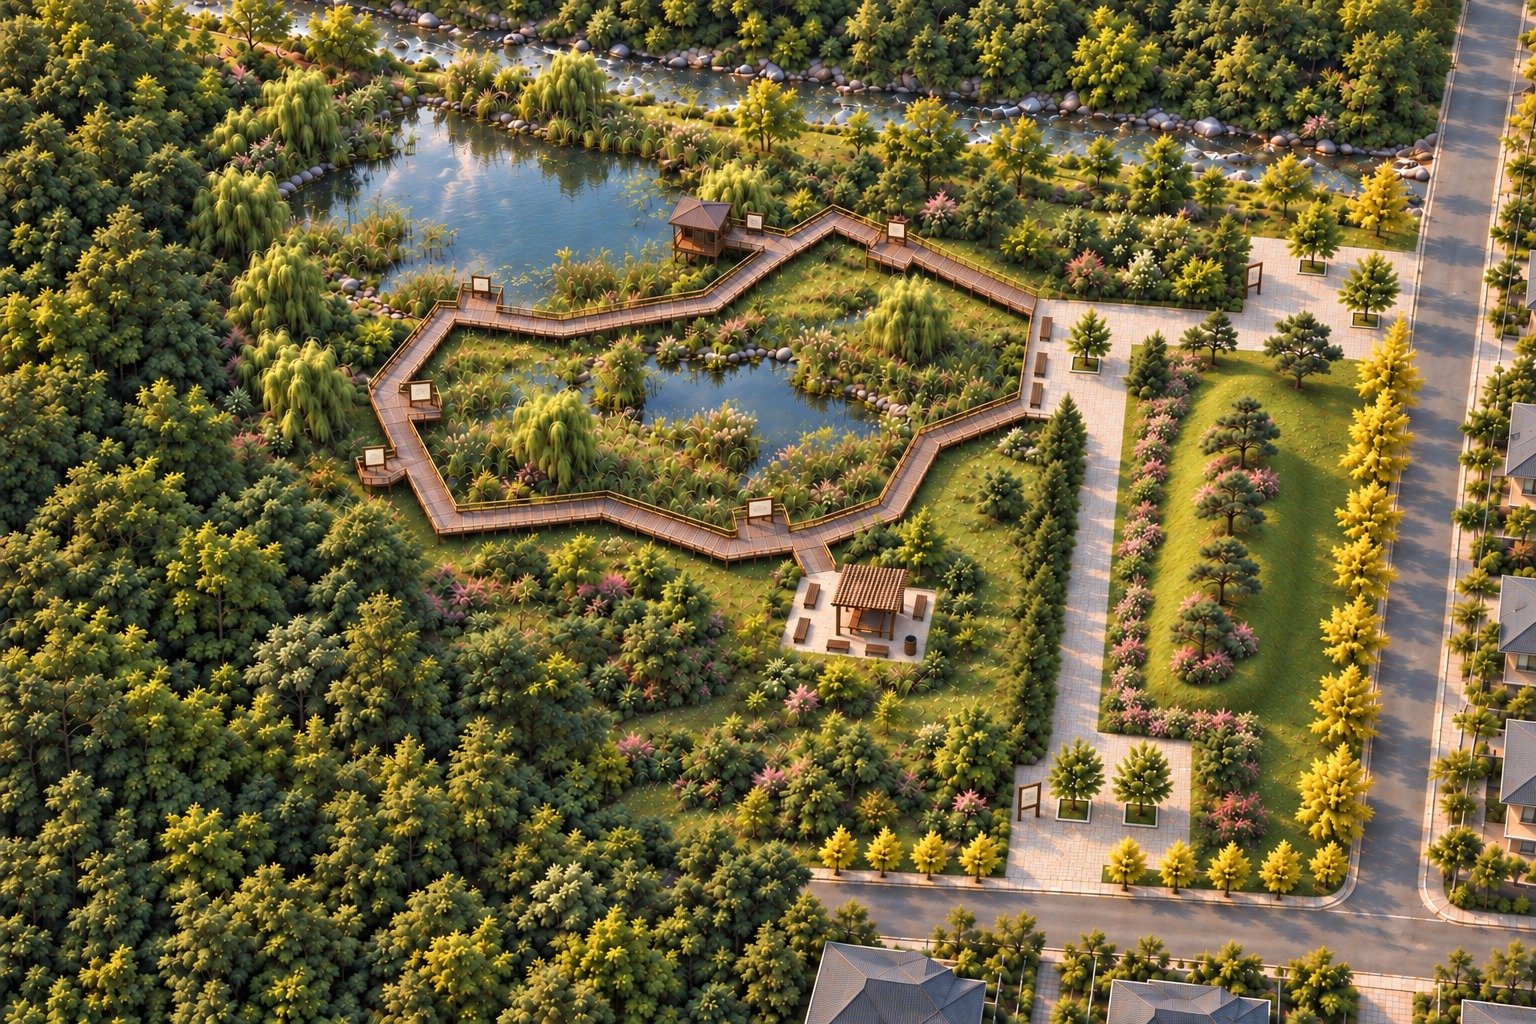
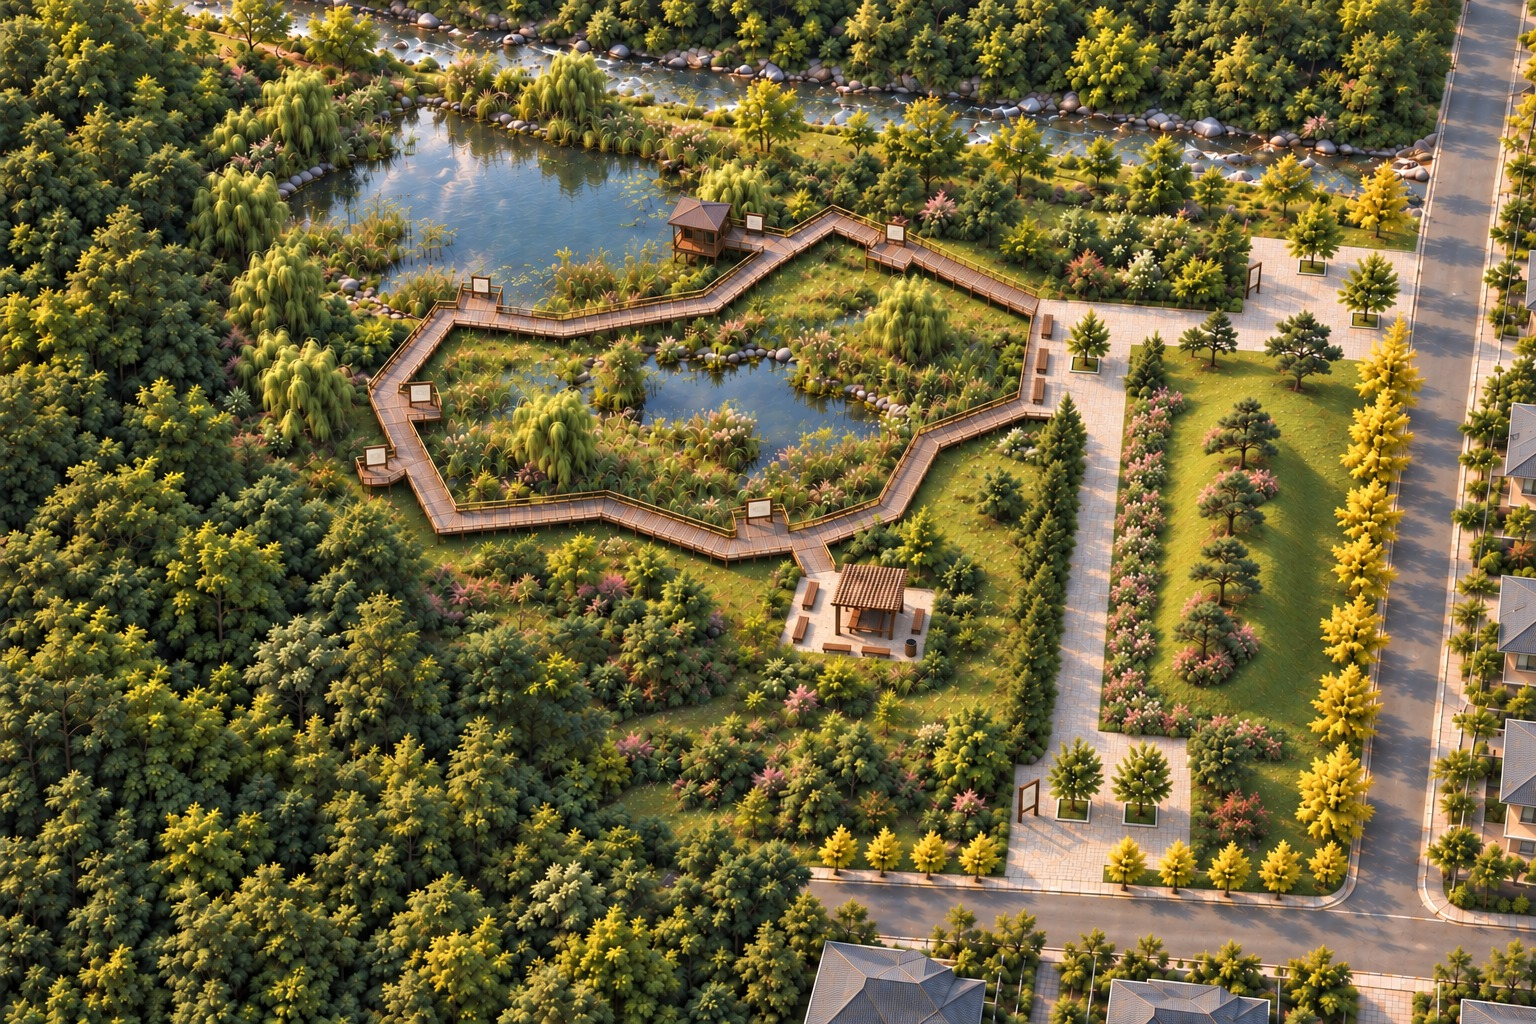
401 세 그림: 진입광장 안내판 방향 되돌아간 것 바로잡음
앞 회차 프롬프트에 "미색 판면이 비스듬히 보이고"라고 적은 것이 화근이었다.
판이 경계선과 나란하면 이 시점에서는 판면이 거의 안 보이는 것이 정상인데,
모델이 "판면이 보이게"를 맞추려고 방향을 되돌려 카메라를 마주 보게 했다.
두 요구가 서로 밀어낸 것이다.

방향을 최우선으로 못박고 그 문장을 지웠다 — "판의 긴 변이 경계선과 나란한
것이 가장 중요하고 절대 카메라를 마주 보게 돌리지 마라. 이 시점에서는 판의
좁은 옆면(두께)이 보이는 것이 맞다. 판면이 안 보여도 괜찮다". 대신 안내판임을
알리는 것으로 ① 가는 다리 둘 ② 판 아래 빈 틈 ③ 바닥에 지는 선 판의 그림자
셋을 요구하고, 걸상은 앉는 면이 바닥 가까이 깔려 아래로 빛이 통하지 않는다는
대비를 적었다.

세 그림 모두 방향이 맞았다. 선명도도 기준 안이다:
  조감도     13회차 2958 → 14회차 3184  (기준 2500)
  입체평면도 22회차 1028 → 23회차 1115  (기준 905)
  My 조감도  11회차 1933 → 12회차 1849  (기준 1701)

diff --git a/_ls_drawing_refs/401_입체평면도/content.md b/_ls_drawing_refs/401_입체평면도/content.md
@@ -1,5 +1,5 @@
 'My' 탭의 색 배치도와 '성운' 탭의 **기본설계도 · 배식설계도**를 GPT 이미지 모델
-(gpt-image-2.5-sunburst)에 주고 만든 **입체평면도**입니다(22회차).
+(gpt-image-2.5-sunburst)에 주고 만든 **입체평면도**입니다(23회차).
 
 '조감도' 탭과 달리 **원근이 없는 평행투영(축측투영)** 입니다. 멀리 있는 것도 가까이 있는 것과
 같은 크기로 그려지므로 **평면도와 그대로 견주어 볼 수 있습니다** — 주택 여덟 채가 모두 같은
@@ -78,6 +78,7 @@
     눈을 끌지 않도록 **읽히지 않을 만큼 흐린 회색 무늬**를 넣었습니다. 안내판은 **진입광장마다
     하나씩**입니다. 선명도 1052, 평행투영 그대로
 22. 90° 를 돌리고 나니 판이 **누워** 평의자처럼 보인다는 지적 — 방향은 그대로 두고 **다리 위에 곧게 선 판**으로 모양만 고쳤습니다. 선명도 1028, 평행투영 그대로
+23. "판면이 비스듬히 보이고"라고 적은 탓에 모델이 **방향을 되돌려** 카메라를 마주 보게 했습니다. **방향이 최우선**임을 못박고 "좁은 옆면이 보이는 것이 맞다"로 바꾸었습니다(23회차). 선명도 1115
 
 > 회차마다 색 배치도와 배식설계도를 첫 두 참고 그림으로 다시 주고, 앞 회차 그림을 셋째로 줍니다.
 > 마스크 부분 수정이나 그림을 손으로 자르고 돌리는 일은 하지 않습니다.
@@ -100,7 +101,7 @@
 10회차 1351·1349·1361px, 16회차 1353·1356·1361px 로 같고, 모형 왼쪽 변 기울기도
 10회차 −18px, 16회차 −16px(730px 기준)로 같습니다.
 
-## 도면과 대조 (22회차)
+## 도면과 대조 (23회차)
 
 | 항목 | 도면 | 그림 |
 | --- | --- | --- |
@@ -120,16 +121,16 @@
 | 배식 | 동선 서쪽 메타세쿼이아 열식 · 동쪽 마운딩에 소나무 7 + 철쭉 · 도로변 은행나무 열식 · 산림지구 다층림 · 저수지·관찰로 서쪽은 열린 잔디 | ✓ 마운딩은 잔디 언덕에 소나무 7주(13회차), 서쪽 변과 남쪽 변을 따라 끊기지 않는 꽃관목 띠(16회차) |
 | 안내판 판면 | — | ✓ 아주 연한 미색에 **읽히지 않는 흐린 무늬** — 옆 포장과 비슷한 밝기 |
 | 안내판 방향·수 | — | ✓ 진입광장 안내판은 **포장·관목 경계선과 나란히**, 광장마다 **1개씩**. 관찰데크 5 · 조류관찰소 1 은 그대로 |
-| 안내판 모양 | — | ✓ 안내판은 **다리 위에 곧게 선 판**입니다 — 가로로 누운 널빤지가 아니라서 모임광장·휴게공간의 갈색 평의자와 뚜렷이 구별됩니다. 미색 판면이 비스듬히 보이고 바닥에 선 판의 그림자가 집니다. |
+| 안내판 모양 | — | ✓ 안내판은 판의 긴 변이 **포장과 관목의 경계선과 나란**해서, 이 시점에서는 **좁은 옆면이 보입니다** — 판면이 안 보이는 것이 맞습니다. 안내판임은 **가는 다리 둘 · 판 아래의 빈 틈 · 바닥에 지는 선 판의 그림자**로 알아봅니다. 걸상은 앉는 면이 바닥 가까이 낮게 깔려 아래로 빛이 통하지 않으니, 둘이 뚜렷이 다릅니다. |
 | 글자 | 없음 | ✓ |
 
 남은 차이는 둘입니다. ① **저수지가 도면보다 조금 동쪽·넓습니다**(도면 부지 폭의 14~44%, 그림 약 19~50%). ② **남측 도로가 55% 지점에서 시작**합니다(도면 50%).
 
-비용은 22장 약 $1.14 입니다(16~22회차만 `xhigh` 품질이라 장당 $0.074).
+비용은 23장 약 $1.21 입니다(16~23회차만 `xhigh` 품질이라 장당 $0.074).
 
-## 프롬프트 — 마지막 회차(22회차, 참고: 색 배치도 + 배식설계도 + 13회차 그림)
+## 프롬프트 — 마지막 회차(23회차, 참고: 색 배치도 + 배식설계도 + 13회차 그림)
 
-13회차 그림을 함께 주고 고칠 넷만 적은 것입니다. 1~20회차 프롬프트는 뺐습니다.
+13회차 그림을 함께 주고 고칠 넷만 적은 것입니다. 1~22회차 프롬프트는 뺐습니다.
 
     The FIRST attached image is the colour-coded site plan of a small Korean ecological park. The SECOND is its hand-drawn planting plan. The THIRD attached image is a PHOTOREALISTIC axonometric render of the same park. Its LAYOUT, its CAMERA, its PARALLEL PROJECTION, its MATERIALS, its TEXTURES, its LIGHTING and every one of its objects are CORRECT and must be reproduced exactly. It stays photorealistic.
 
@@ -156,14 +157,19 @@
 
     HOW MANY SIGNBOARDS THERE ARE. Each entrance plaza carries EXACTLY ONE signboard, never two - count them: one on the southern entrance plaza, one on the north-eastern entrance plaza. The boardwalk carries 5, one on each of the 5 viewing platforms, and there is 1 beside the bird-watching hut. SEVEN signboards in all in the whole park, no more and no fewer. The gathering plaza has NO signboard at all - it has three timber benches.
 
-    FIX 4 — THE TWO ENTRANCE-PLAZA SIGNBOARDS ARE UPRIGHT BOARDS ON LEGS - THEY ARE NOT BENCHES.
-    On each entrance plaza the large signboard stands right beside the line where the block paving meets the mass of shrubs at the edge of the plaza, and its LONG EDGE RUNS ALONG that line, parallel to it, with its back to the shrubs. That DIRECTION is correct and must stay exactly as it is.
+    FIX 4 — THE TWO ENTRANCE-PLAZA SIGNBOARDS: DIRECTION FIRST, THEN LEGS AND SHADOW.
+    On each entrance plaza the large signboard stands right beside the line where the block paving meets the mass of shrubs at the edge of the plaza.
 
-    What is wrong is its SHAPE: the board has become a flat plank lying face-up on the ground, exactly like a bench. It must instead be a BOARD STANDING UPRIGHT ON TWO SLIM TIMBER LEGS. The panel is held up on edge, its bottom edge well clear of the ground, and from this high viewpoint you see its PALE OFF-WHITE FACE at a slant, tilted towards the plaza, with the LONG SHADOW of the standing panel thrown across the paving beside it.
+    DIRECTION MATTERS MORE THAN ANYTHING ELSE ABOUT THESE TWO BOARDS. The board's LONG EDGE RUNS ALONG that paving-and-shrub line, exactly PARALLEL to it, with its back to the shrubs. NEVER turn a board round to face the camera. From this high south-eastern viewpoint you therefore see the board almost EDGE-ON: a thin upright slab whose NARROW SIDE - its thickness - is what faces you. THAT IS CORRECT. It is perfectly fine that the pale face of the panel is hidden from us; do NOT rotate the board in order to show that face.
 
-    IT MUST NOT LOOK LIKE A BENCH. This same picture contains brown timber benches - three on the gathering plaza and five at the pergola rest area. A BENCH is LOW, with a flat seat lying horizontally, and you look down onto its seat. A SIGNBOARD is TALL, stands on edge on its legs, and has nothing to sit on. The two must be unmistakably different at a glance. Never draw a signboard as a flat horizontal plank of timber.
+    WHAT MAKES IT READ AS A SIGNBOARD is not its face but these three things, and all three must be there:
+      1. It stands on TWO SLIM TIMBER LEGS and does not touch the ground.
+      2. There is an OPEN GAP beneath the panel - you can see the paving through it, under the board and between the legs.
+      3. It throws the LONG SHADOW of a standing upright slab across the paving beside it.
 
-    Do not move either board from its spot, and do not change its size or its direction. Do this on BOTH entrance plazas, the southern one and the north-eastern one.
+    THAT IS EXACTLY WHAT SEPARATES IT FROM A BENCH. This picture contains brown timber benches - three on the gathering plaza and five at the pergola rest area. A bench's seat lies LOW and CLOSE to the ground with no daylight underneath it; a signboard is lifted HIGH on its legs with open space beneath. Never draw these two boards as flat planks lying on the ground.
+
+    Do not move either board from its spot and do not change its size. Do this on BOTH entrance plazas, the southern one and the north-eastern one.
 
     DO NOT TOUCH THE BOARDS ON THE BOARDWALK. The 5 small boards on the 5 timber viewing platforms and the 1 board beside the bird-watching hut are ALREADY RIGHT - each stands upright and runs along its own deck rail. Leave their shape, direction, position and size exactly as they are.
 

diff --git a/_ls_drawing_refs/401_조감도/content.md b/_ls_drawing_refs/401_조감도/content.md
@@ -1,5 +1,5 @@
 '성운' 탭의 **답안지 II · 기본설계도**와 **답안지 III · 배식설계도**, 문제지 조건으로 만든 **입체 조감도**입니다.
-**GPT**(gpt-image-2.5-sunburst, 13회차)로 그렸습니다. 남동쪽 상공에서 북서쪽을 내려다본 시점이라 **도면의 북쪽이 그림의 위**입니다 —
+**GPT**(gpt-image-2.5-sunburst, 14회차)로 그렸습니다. 남동쪽 상공에서 북서쪽을 내려다본 시점이라 **도면의 북쪽이 그림의 위**입니다 —
 실개천이 위, 기존수림이 왼쪽, 6m 도로와 주택가가 오른쪽·아래입니다.
 
 ## 만든 방법 — 1회차 그림에서 **한 번에**
@@ -24,12 +24,13 @@
    회색 무늬**(윗부분 작은 그림, 아래 글줄 두세 줄)를 넣어 질감을 주었습니다.
    안내판은 도면대로 **진입광장마다 하나씩**입니다
 6. 90° 를 돌리고 나니 판이 **누워** 평의자처럼 보인다는 지적이 나왔습니다(13회차). 방향은 그대로 두고 **다리 위에 곧게 선 판**으로 모양만 고쳤습니다 — 같은 그림의 갈색 평의자와 견줘 뚜렷이 달라야 한다고 적었습니다
+7. 그런데 "**미색 판면이 비스듬히 보이고**"라고 적은 탓에 모델이 판면을 보이려고 **방향을 되돌려** 카메라를 마주 보게 했습니다(사용자 지적). 14회차에서 **방향이 최우선**임을 못박고 "이 시점에서는 판의 **좁은 옆면**이 보이는 것이 맞다, 판면이 안 보여도 괜찮다"고 바꿔 적었습니다. 대신 안내판임을 알리는 것으로 **다리 둘 · 판 아래 빈 틈 · 선 판의 그림자** 셋을 요구했습니다
 
 > **덧그리기는 곧 화질입니다.** 고칠 것이 생기면 마지막 그림 위에 얹지 말고, **덧그림이 적은 앞 회차로 돌아가
 > 고칠 것을 모두 한 프롬프트에 모아** 다시 그리는 편이 낫습니다. 같은 방식으로 'My' 탭 조감도와 '입체평면도'도 고쳤습니다.
 > 마스크 부분 수정이나 그림을 손으로 자르고 돌리는 일은 하지 않습니다.
 
-## 도면과 대조 (13회차)
+## 도면과 대조 (14회차)
 
 | 도면(성운 답안) | 결과 |
 | --- | --- |
@@ -44,14 +45,14 @@
 | 두 진입광장을 잇는 남북 동선, 서쪽 메타세쿼이아 열식, 동쪽 마운딩에 소나무 7 · 철쭉, 도로변 은행나무 열식 | ✓ 마운딩은 **봉긋한 잔디 둔덕**이고 서쪽 변과 남쪽 변을 따라 **끊기지 않는 꽃관목 띠**를 둘렀습니다 |
 | 안내판 판면 | ✓ 아주 연한 미색에 **읽히지 않는 흐린 무늬** — 옆 포장과 비슷한 밝기라 도드라지지 않습니다 |
 | 안내판 방향·수 | ✓ 진입광장 안내판은 **포장·관목 경계선과 나란히**, 광장마다 **1개씩**. 관찰데크 5 · 조류관찰소 1 은 그대로 |
-| 안내판 모양 | ✓ 안내판은 **다리 위에 곧게 선 판**입니다 — 가로로 누운 널빤지가 아니라서 모임광장·휴게공간의 갈색 평의자와 뚜렷이 구별됩니다. 미색 판면이 비스듬히 보이고 바닥에 선 판의 그림자가 집니다. |
+| 안내판 모양 | ✓ 안내판은 판의 긴 변이 **포장과 관목의 경계선과 나란**해서, 이 시점에서는 **좁은 옆면이 보입니다** — 판면이 안 보이는 것이 맞습니다. 안내판임은 **가는 다리 둘 · 판 아래의 빈 틈 · 바닥에 지는 선 판의 그림자**로 알아봅니다. 걸상은 앉는 면이 바닥 가까이 낮게 깔려 아래로 빛이 통하지 않으니, 둘이 뚜렷이 다릅니다. |
 | 글자 없음 | ✓ |
 
-비용은 13장 약 $0.69 입니다(8~13회차만 `xhigh` 품질이라 장당 $0.074).
+비용은 14장 약 $0.76 입니다(8~14회차만 `xhigh` 품질이라 장당 $0.074).
 
-## 프롬프트 — 마지막 회차(13회차, 참고: 기본설계도 + 배식설계도 + 1회차 그림)
+## 프롬프트 — 마지막 회차(14회차, 참고: 기본설계도 + 배식설계도 + 1회차 그림)
 
-1회차 그림을 함께 주고 고칠 것을 한꺼번에 적은 것입니다. 1~11회차 프롬프트는 뺐습니다.
+1회차 그림을 함께 주고 고칠 것을 한꺼번에 적은 것입니다. 1~13회차 프롬프트는 뺐습니다.
 
     The FIRST attached image is the site and facilities plan of a small Korean ecological park (north is up in the drawing). The SECOND attached image is the planting plan of the same site. These two drawings are the ground truth for WHAT is where.
 
@@ -84,14 +85,19 @@
 
     10. THE OTHER BOARDS ALL STAY. The 5 small blank boards on the 5 observation decks and the 1 blank board beside the timber bird-watching hide at the pond must ALL be there — SIX boards in all, each with a pale off-white panel. Do not delete them, do not move them and do not turn them into benches. The large signboards on the two entrance plazas also stay.
 
-    11. THE TWO ENTRANCE-PLAZA SIGNBOARDS ARE UPRIGHT BOARDS ON LEGS - THEY ARE NOT BENCHES.
-    On each entrance plaza the large signboard stands right beside the line where the block paving meets the mass of shrubs at the edge of the plaza, and its LONG EDGE RUNS ALONG that line, parallel to it, with its back to the shrubs. That DIRECTION is correct and must stay exactly as it is.
+    11. THE TWO ENTRANCE-PLAZA SIGNBOARDS: DIRECTION FIRST, THEN LEGS AND SHADOW.
+    On each entrance plaza the large signboard stands right beside the line where the block paving meets the mass of shrubs at the edge of the plaza.
 
-    What is wrong is its SHAPE: the board has become a flat plank lying face-up on the ground, exactly like a bench. It must instead be a BOARD STANDING UPRIGHT ON TWO SLIM TIMBER LEGS. The panel is held up on edge, its bottom edge well clear of the ground, and from this high viewpoint you see its PALE OFF-WHITE FACE at a slant, tilted towards the plaza, with the LONG SHADOW of the standing panel thrown across the paving beside it.
+    DIRECTION MATTERS MORE THAN ANYTHING ELSE ABOUT THESE TWO BOARDS. The board's LONG EDGE RUNS ALONG that paving-and-shrub line, exactly PARALLEL to it, with its back to the shrubs. NEVER turn a board round to face the camera. From this high south-eastern viewpoint you therefore see the board almost EDGE-ON: a thin upright slab whose NARROW SIDE - its thickness - is what faces you. THAT IS CORRECT. It is perfectly fine that the pale face of the panel is hidden from us; do NOT rotate the board in order to show that face.
 
-    IT MUST NOT LOOK LIKE A BENCH. This same picture contains brown timber benches - three on the gathering plaza and five at the pergola rest area. A BENCH is LOW, with a flat seat lying horizontally, and you look down onto its seat. A SIGNBOARD is TALL, stands on edge on its legs, and has nothing to sit on. The two must be unmistakably different at a glance. Never draw a signboard as a flat horizontal plank of timber.
+    WHAT MAKES IT READ AS A SIGNBOARD is not its face but these three things, and all three must be there:
+      1. It stands on TWO SLIM TIMBER LEGS and does not touch the ground.
+      2. There is an OPEN GAP beneath the panel - you can see the paving through it, under the board and between the legs.
+      3. It throws the LONG SHADOW of a standing upright slab across the paving beside it.
 
-    Do not move either board from its spot, and do not change its size or its direction. Do this on BOTH entrance plazas, the southern one and the north-eastern one.
+    THAT IS EXACTLY WHAT SEPARATES IT FROM A BENCH. This picture contains brown timber benches - three on the gathering plaza and five at the pergola rest area. A bench's seat lies LOW and CLOSE to the ground with no daylight underneath it; a signboard is lifted HIGH on its legs with open space beneath. Never draw these two boards as flat planks lying on the ground.
+
+    Do not move either board from its spot and do not change its size. Do this on BOTH entrance plazas, the southern one and the north-eastern one.
 
     DO NOT TOUCH THE BOARDS ON THE BOARDWALK. The 5 small boards on the 5 timber viewing platforms and the 1 board beside the bird-watching hut are ALREADY RIGHT - each stands upright and runs along its own deck rail. Leave their shape, direction, position and size exactly as they are.
 
